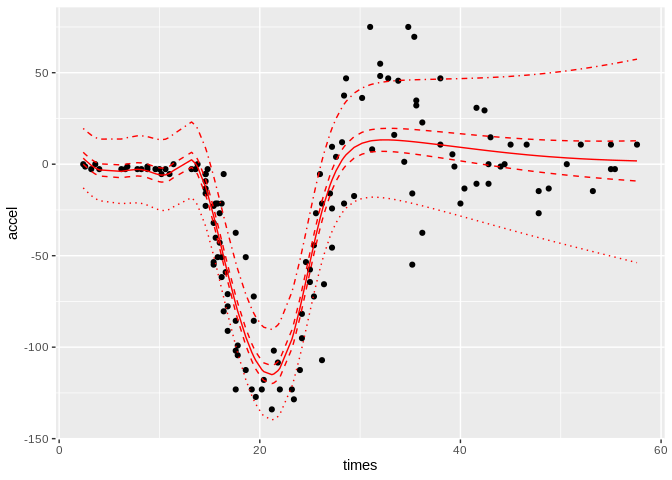
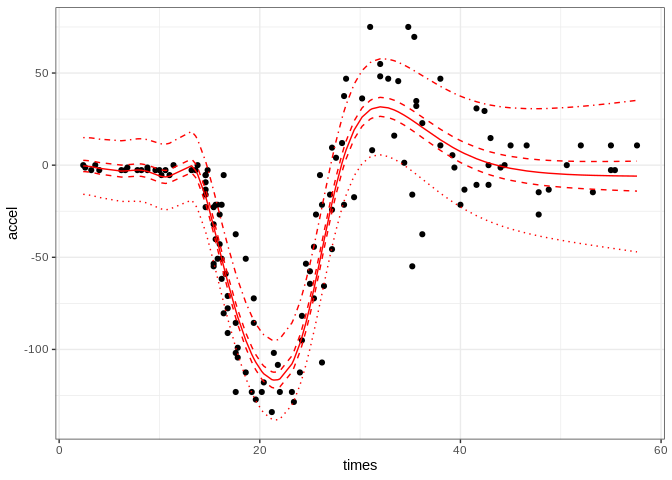
fixes related to variational

diff --git a/README.md b/README.md
@@ -283,33 +283,20 @@ mod <- deepregression(
   family = "bernoulli",
   validation_split = NULL,
   variational = TRUE,
-  df = 10 # use no penalization for spline
 )
-cvres <- mod %>% cv(epochs=100)
+cvres <- mod %>% cv(cv_folds = 5, epochs=200)
 ```
 
-    ## Warning in cv(., epochs = 100): No folds for CV given, using k = 10.
-
     ## Fitting Fold  1  ... 
-    ## Done in 11.35368  secs 
+    ## Done in 19.07667  secs 
     ## Fitting Fold  2  ... 
-    ## Done in 9.033123  secs 
+    ## Done in 18.89088  secs 
     ## Fitting Fold  3  ... 
-    ## Done in 8.681913  secs 
+    ## Done in 19.55833  secs 
     ## Fitting Fold  4  ... 
-    ## Done in 8.802747  secs 
+    ## Done in 18.8796  secs 
     ## Fitting Fold  5  ... 
-    ## Done in 9.568506  secs 
-    ## Fitting Fold  6  ... 
-    ## Done in 11.45745  secs 
-    ## Fitting Fold  7  ... 
-    ## Done in 11.26  secs 
-    ## Fitting Fold  8  ... 
-    ## Done in 9.435672  secs 
-    ## Fitting Fold  9  ... 
-    ## Done in 10.11161  secs 
-    ## Fitting Fold  10  ... 
-    ## Done in 10.91927  secs
+    ## Done in 18.9857  secs
 
 ![](README_files/figure-gfm/unnamed-chunk-7-1.png)<!-- -->
 
@@ -317,9 +304,6 @@ cvres <- mod %>% cv(epochs=100)
 bestiter <- stop_iter_cv_result(cvres)
 # fit model
 mod %>% fit(epochs=bestiter, verbose = FALSE, view_metrics = FALSE)
-# make prediction intervals
-pred_vals <- sapply(1:100, function(i) (mod %>% predict(data.frame(x=x_test)))[,1])
-q_vals <- apply(pred_vals,1,function(x) quantile(x, probs = c(0.025,0.975)))
 # plot model
 mod %>% plot(use_posterior=TRUE)
 points(sin(10*(sort(x))) ~ sort(x), col = "red", type="l", ylim=c(0,1))
@@ -724,16 +708,6 @@ mean((pred-test$LWAGE)^2)
 #### and use distributional regression to compare
 #### with quantile regression
 library(MASS)
-```
-
-    ## 
-    ## Attaching package: 'MASS'
-
-    ## The following object is masked from 'package:deepregression':
-    ## 
-    ##     select
-
-``` r
 data("mcycle")
 set.seed(48)
 
@@ -802,9 +776,9 @@ for(sim_iteration in 1:nrsims){
 apply(res, 2, function(x) c(mean(x, na.rm=T), sd(x, na.rm=T)))
 ```
 
-    ##          RMSE        time
-    ## [1,] 50.22497 0.883597230
-    ## [2,] 17.93658 0.009482691
+    ##          RMSE      time
+    ## [1,] 37.45039 0.9263288
+    ## [2,] 15.50161 0.0353964
 
 ``` r
 library(reshape2)
@@ -817,7 +791,7 @@ fitdf %>%
   geom_line(aes(x=times, y=q40), col="red", linetype = 2) + 
   geom_line(aes(x=times, y=q60), col="red", linetype = 2) + 
   geom_line(aes(x=times, y=q10), col="red", linetype = 3) + 
-  geom_line(aes(x=times, y=q90), col="red", linetype = 4)
+  geom_line(aes(x=times, y=q90), col="red", linetype = 4) + theme_bw()
 ```
 
 ![](README_files/figure-gfm/unnamed-chunk-12-1.png)<!-- -->
@@ -978,16 +952,6 @@ Northeastern United States.
 ``` r
 # load data
 library("gamlss.data")
-```
-
-    ## 
-    ## Attaching package: 'gamlss.data'
-
-    ## The following object is masked from 'package:datasets':
-    ## 
-    ##     sleep
-
-``` r
 data(acidity)
 
 # softmax function
@@ -1016,15 +980,15 @@ cvres <- mod %>% cv(epochs = 500, cv_folds = 5)
 ```
 
     ## Fitting Fold  1  ... 
-    ## Done in 25.35681  secs 
+    ## Done in 24.78617  secs 
     ## Fitting Fold  2  ... 
-    ## Done in 24.126  secs 
+    ## Done in 24.13162  secs 
     ## Fitting Fold  3  ... 
-    ## Done in 24.38965  secs 
+    ## Done in 24.53428  secs 
     ## Fitting Fold  4  ... 
-    ## Done in 24.51638  secs 
+    ## Done in 23.95275  secs 
     ## Fitting Fold  5  ... 
-    ## Done in 24.79158  secs
+    ## Done in 23.79912  secs
 
 ![](README_files/figure-gfm/unnamed-chunk-14-1.png)<!-- -->
 
@@ -1035,61 +999,23 @@ coefinput <- unlist(mod$model$get_weights())
 (means <- coefinput[c(2:4)])
 ```
 
-    ## [1]  1.1285480 -0.7829522 -0.4585955
+    ## [1]  1.1017616 -0.7828224 -1.4577916
 
 ``` r
 (stds <- exp(coefinput[c(5:7)]))
 ```
 
-    ## [1] 0.5409427 0.3213030 1.5896646
+    ## [1] 0.5477579 0.3200957 0.9883890
 
 ``` r
 (pis <- softmax(coefinput[8:10]*coefinput[1]))
 ```
 
-    ## [1] 0.39367941 0.56590463 0.04041596
+    ## [1] 0.4204461 0.5662173 0.0133366
 
 ``` r
 library(distr)
-```
 
-    ## Loading required package: startupmsg
-
-    ## Utilities for Start-Up Messages (version 0.9.6)
-
-    ## For more information see ?"startupmsg", NEWS("startupmsg")
-
-    ## Loading required package: sfsmisc
-
-    ## 
-    ## Attaching package: 'sfsmisc'
-
-    ## The following object is masked from 'package:deepregression':
-    ## 
-    ##     last
-
-    ## Object Oriented Implementation of Distributions (version 2.8.0)
-
-    ## Attention: Arithmetics on distribution objects are understood as operations on corresponding random variables (r.v.s); see distrARITH().
-    ## Some functions from package 'stats' are intentionally masked ---see distrMASK().
-    ## Note that global options are controlled by distroptions() ---c.f. ?"distroptions".
-
-    ## For more information see ?"distr", NEWS("distr"), as well as
-    ##   http://distr.r-forge.r-project.org/
-    ## Package "distrDoc" provides a vignette to this package as well as to several extension packages; try vignette("distr").
-
-    ## 
-    ## Attaching package: 'distr'
-
-    ## The following objects are masked from 'package:deepregression':
-    ## 
-    ##     location, n, shape
-
-    ## The following objects are masked from 'package:stats':
-    ## 
-    ##     df, qqplot, sd
-
-``` r
 mixDist <- UnivarMixingDistribution(Norm(means[1],stds[1]),
                                     Norm(means[2],stds[2]),
                                     Norm(means[3],stds[3]),
